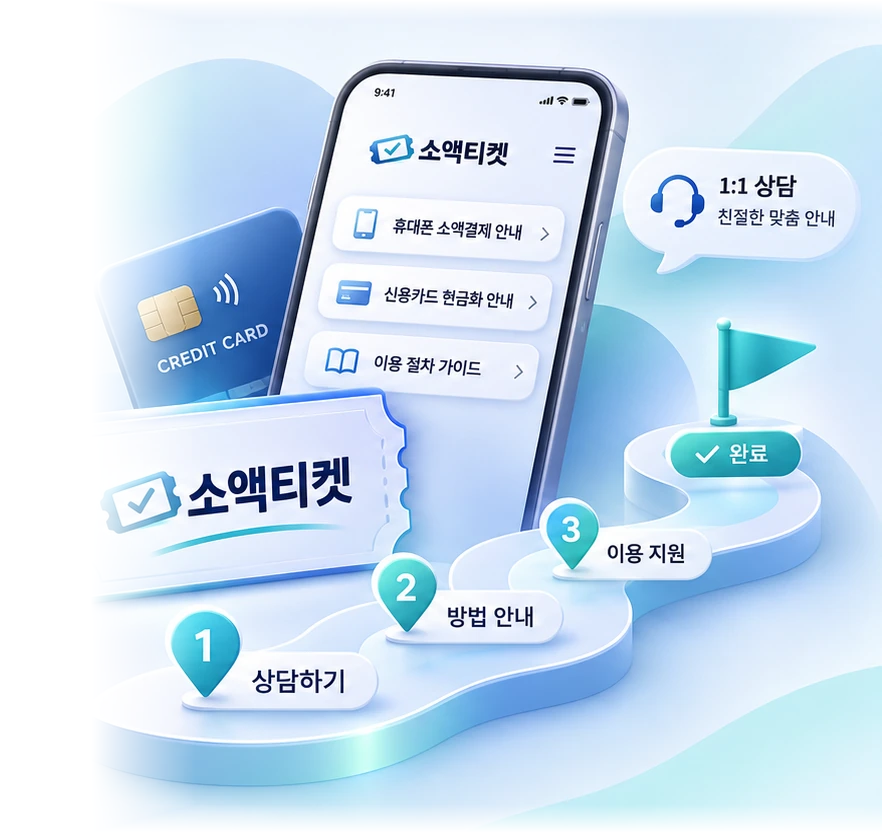
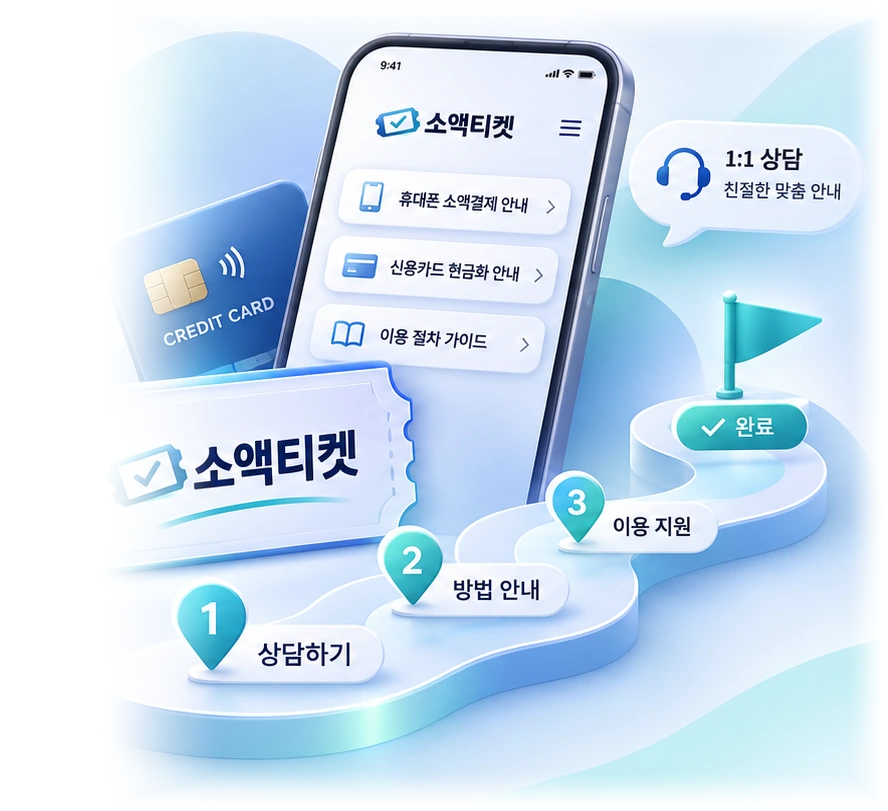
Apply V7 design to first homepage slide

diff --git a/public/index.html b/public/index.html
@@ -1,15 +1,23 @@
 <!DOCTYPE html><html lang="ko"><head><meta charset="utf-8"><meta name="viewport" content="width=device-width, initial-scale=1"><meta name="theme-color" content="#23414a"><meta name="robots" content="noindex,nofollow"><title>상품권 이용 안내 | 소액티켓</title><meta name="description" content="휴대폰 소액결제, 신용카드 상품권 구매, 모바일상품권 매입을 소액티켓에서 안내합니다."><link rel="stylesheet" href="assets/site.css"><script src="assets/site.js" defer></script></head><body><div class="utility"><div class="wrap"><span>소액티켓 · 상품권 이용 안내</span><div class="line"><span><i class="dot"></i>구매·매입 조건 확인</span><a href="faq.html#contact">온라인 문의 안내</a></div></div></div><header class="header site-header"><div class="wrap header-in brand-header"><a class="brand" href="index.html" aria-label="소액티켓 메인으로 이동"><span aria-hidden="true" class="brand-mark"><span>ST</span></span><span><span class="brand-name">소액티켓</span><span class="brand-en" style="display:block">SOAEK TICKET</span></span></a><div class="header-right"><span class="header-quiet">상품권 이용을 더 쉽게 안내합니다</span><a class="header-cta" href="faq.html#contact">상담 안내 <span aria-hidden="true">↗</span></a></div><button class="menu-toggle mobile-nav-toggle" aria-controls="menu-shell" aria-expanded="false" aria-label="전체 메뉴 열기" type="button"><span></span><span></span><span></span></button></div><div class="menu-shell" id="menu-shell"><nav class="primary-navigation wrap" aria-label="전체 서비스 메뉴"><div class="primary-item" data-menu-group="brand"><button type="button" class="primary-tab" data-menu-trigger="brand" aria-expanded="false" aria-controls="mega-menu">소액티켓 소개<span class="tab-caret" aria-hidden="true">⌄</span></button><div class="mobile-submenu"><a class="mobile-sub-link" href="index.html#about">브랜드 소개</a><a class="mobile-sub-link" href="index.html#standards">서비스 운영 원칙</a><a class="mobile-sub-link" href="index.html#news">이용 정보 살펴보기</a></div></div><div class="primary-item" data-menu-group="mobile"><button type="button" class="primary-tab" data-menu-trigger="mobile" aria-expanded="false" aria-controls="mega-menu">휴대폰 소액결제<span class="tab-caret" aria-hidden="true">⌄</span></button><div class="mobile-submenu"><a class="mobile-sub-link" href="mobile-payment.html#overview">서비스 안내</a><a class="mobile-sub-link" href="mobile-payment.html#limits">결제 한도</a><a class="mobile-sub-link" href="mobile-payment.html#troubleshooting">승인 제한·오류</a><a class="mobile-sub-link" href="mobile-payment.html#billing">청구·납부 정보</a></div></div><div class="primary-item" data-menu-group="credit"><button type="button" class="primary-tab" data-menu-trigger="credit" aria-expanded="false" aria-controls="mega-menu">신용카드 안내<span class="tab-caret" aria-hidden="true">⌄</span></button><div class="mobile-submenu"><a class="mobile-sub-link" href="credit-card.html#overview">상품권 카드 구매</a><a class="mobile-sub-link" href="credit-card.html#methods">일시불·할부 안내</a><a class="mobile-sub-link" href="credit-card.html#fees">결제 금액·무이자</a><a class="mobile-sub-link" href="credit-card.html#supported">카드별 이용 조건</a></div></div><div class="primary-item" data-menu-group="gift"><button type="button" class="primary-tab" data-menu-trigger="gift" aria-expanded="false" aria-controls="mega-menu">모바일상품권<span class="tab-caret" aria-hidden="true">⌄</span></button><div class="mobile-submenu"><a class="mobile-sub-link" href="giftcard.html#overview">상품권 매입 안내</a><a class="mobile-sub-link" href="giftcard.html#types">상품권 종류·권종</a><a class="mobile-sub-link" href="giftcard.html#condition">유효기간·사용 상태</a><a class="mobile-sub-link" href="giftcard.html#payout">매입금액·입금 확인</a></div></div><div class="primary-item" data-menu-group="usage"><button type="button" class="primary-tab" data-menu-trigger="usage" aria-expanded="false" aria-controls="mega-menu">이용안내<span class="tab-caret" aria-hidden="true">⌄</span></button><div class="mobile-submenu"><a class="mobile-sub-link" href="guide.html#steps">전체 이용 절차</a><a class="mobile-sub-link" href="guide.html#before">이용 전 점검</a><a class="mobile-sub-link" href="guide.html#result">거래 결과 확인</a><a class="mobile-sub-link" href="guide.html#privacy">안전한 정보 전달</a></div></div><div class="primary-item" data-menu-group="support"><button type="button" class="primary-tab" data-menu-trigger="support" aria-expanded="false" aria-controls="mega-menu">고객센터<span class="tab-caret" aria-hidden="true">⌄</span></button><div class="mobile-submenu"><a class="mobile-sub-link" href="faq.html#questions">자주 묻는 질문</a><a class="mobile-sub-link" href="faq.html#errors">결제 오류 문의</a><a class="mobile-sub-link" href="faq.html#contact">상담 안내</a></div></div></nav><div class="mega-menu" id="mega-menu" aria-hidden="true"><div class="mega-menu-inner wrap"><div class="mega-grid"><section class="mega-column" data-menu-column="brand" aria-label="소액티켓 소개"><a class="mega-col-heading" href="index.html#about">소액티켓 소개</a><div class="mega-list"><a class="mega-sub-link" href="index.html#about">브랜드 소개</a><a class="mega-sub-link" href="index.html#standards">서비스 운영 원칙</a><a class="mega-sub-link" href="index.html#news">이용 정보 살펴보기</a></div></section><section class="mega-column" data-menu-column="mobile" aria-label="휴대폰 소액결제"><a class="mega-col-heading" href="mobile-payment.html#overview">휴대폰 소액결제</a><div class="mega-list"><a class="mega-sub-link" href="mobile-payment.html#overview">서비스 안내</a><a class="mega-sub-link" href="mobile-payment.html#limits">결제 한도</a><a class="mega-sub-link" href="mobile-payment.html#troubleshooting">승인 제한·오류</a><a class="mega-sub-link" href="mobile-payment.html#billing">청구·납부 정보</a></div></section><section class="mega-column" data-menu-column="credit" aria-label="신용카드 안내"><a class="mega-col-heading" href="credit-card.html#overview">신용카드 안내</a><div class="mega-list"><a class="mega-sub-link" href="credit-card.html#overview">상품권 카드 구매</a><a class="mega-sub-link" href="credit-card.html#methods">일시불·할부 안내</a><a class="mega-sub-link" href="credit-card.html#fees">결제 금액·무이자</a><a class="mega-sub-link" href="credit-card.html#supported">카드별 이용 조건</a></div></section><section class="mega-column" data-menu-column="gift" aria-label="모바일상품권"><a class="mega-col-heading" href="giftcard.html#overview">모바일상품권</a><div class="mega-list"><a class="mega-sub-link" href="giftcard.html#overview">상품권 매입 안내</a><a class="mega-sub-link" href="giftcard.html#types">상품권 종류·권종</a><a class="mega-sub-link" href="giftcard.html#condition">유효기간·사용 상태</a><a class="mega-sub-link" href="giftcard.html#payout">매입금액·입금 확인</a></div></section><section class="mega-column" data-menu-column="usage" aria-label="이용안내"><a class="mega-col-heading" href="guide.html#steps">이용안내</a><div class="mega-list"><a class="mega-sub-link" href="guide.html#steps">전체 이용 절차</a><a class="mega-sub-link" href="guide.html#before">이용 전 점검</a><a class="mega-sub-link" href="guide.html#result">거래 결과 확인</a><a class="mega-sub-link" href="guide.html#privacy">안전한 정보 전달</a></div></section><section class="mega-column" data-menu-column="support" aria-label="고객센터"><a class="mega-col-heading" href="faq.html#questions">고객센터</a><div class="mega-list"><a class="mega-sub-link" href="faq.html#questions">자주 묻는 질문</a><a class="mega-sub-link" href="faq.html#errors">결제 오류 문의</a><a class="mega-sub-link" href="faq.html#contact">상담 안내</a></div></section></div></div></div></div></header><main id="top">
 <section aria-label="소액티켓 대표 배너" class="hero">
-<div aria-hidden="false" class="hero-slide hero-slide-intro on">
+<div aria-hidden="false" class="hero-slide hero-slide-intro hero-slide-original on">
   <div class="hero-inner">
     <div class="hero-copy">
-      <div class="hero-over">SOAEK TICKET · SERVICE GUIDE</div>
-      <h1><em>소액티켓</em>에서<br>차근차근.</h1>
+      <div class="hero-over hero-over-pill">소액결제 · 신용카드 현금화 가이드</div>
+      <h1 class="hero-reference-title"><em>소액티켓</em>에서 차근차근</h1>
       <p class="hero-desc">휴대폰 소액결제부터 신용카드 현금화까지<br>소액티켓에서 하나하나 알려드립니다.</p>
-      <a class="hero-link" href="guide.html#steps">서비스 자세히 보기 <strong>↗</strong></a>
+      <div class="hero-intro-actions">
+        <a class="hero-cta hero-cta-primary" href="faq.html#contact"><span class="hero-cta-ico" aria-hidden="true">◉</span> 상담 신청하기 <span aria-hidden="true">↗</span></a>
+        <a class="hero-cta hero-cta-secondary" href="guide.html#steps"><span class="hero-cta-ico" aria-hidden="true">▣</span> 이용 가이드 보기 <span aria-hidden="true">↗</span></a>
+      </div>
+      <div class="hero-intro-trust" aria-label="소액티켓 서비스 안내">
+        <span><b class="hero-trust-icon">✓</b><span><strong>안심 상담</strong><small>궁금한 점을 편하게 문의</small></span></span>
+        <span><b class="hero-trust-icon">▤</b><span><strong>단계별 안내</strong><small>처음부터 끝까지 차근차근</small></span></span>
+        <span><b class="hero-trust-icon">ϟ</b><span><strong>쉽고 간편한 이용</strong><small>복잡함 없이 쉽게</small></span></span>
+      </div>
     </div>
     <div class="hero-intro-art">
-      <img src="assets/soaekticket-hero-01.webp" width="882" height="832" alt="소액티켓 결제 안내 화면과 카드, 상품권을 보여주는 3D 일러스트">
+      <img src="assets/soaekticket-hero-01.webp" alt="소액티켓 휴대폰, 카드, 상품권과 3단계 이용 흐름을 표현한 3D 일러스트" width="888" height="811">
     </div>
   </div>
 </div>

diff --git a/public/assets/site.css b/public/assets/site.css
@@ -138,18 +138,70 @@
 @media(max-width:700px){html{scroll-padding-top:70px}.page-hero .wrap{min-height:0;display:block;padding-top:44px;padding-bottom:26px}.page-hero h1{font-size:36px;margin:17px 0}.page-hero p{font-size:13px}.hero-piece{width:170px;margin:0 auto;height:160px;aspect-ratio:unset}.hero-piece .ticket-shape{font-size:37px}.sub-section{padding:49px 0}.sub-heading{font-size:27px;margin:15px 0 20px}.sub-paragraph{font-size:14px;line-height:1.85}.sub-card-grid{grid-template-columns:1fr;margin-top:24px;gap:12px}.sub-card{min-height:0;padding:23px}.sub-callout{padding:18px;font-size:13px}.contact-info-panel{padding:24px;display:block}.contact-info-panel h3{font-size:18px}.contact-info-panel .soft-link{margin-top:12px;white-space:normal}.related-links{gap:8px}.related-links a{padding:10px}.page-related{padding:47px 0}.faqs-list summary{font-size:14px;padding-right:25px}.faqs-list details p{margin-left:0}.breadcrumb{font-size:11px}.footer-links{margin-top:20px;gap:12px}.detail-table{font-size:13px}}
 @media(prefers-reduced-motion:reduce){.hero-slide{transition:none}}
 
-.hero-slide-intro{background:linear-gradient(115deg,#fff 8%,#f3f8ff 54%,#dceefe 100%)}
-.hero-slide-intro::before{content:none}
-.hero-slide-intro .hero-inner{grid-template-columns:1fr 1fr}
-.hero-slide-intro .hero-copy{text-align:center;padding:12px 0 32px}
-.hero-slide-intro .hero-copy h1{font-size:clamp(32px,3.1vw,44px);color:#183b56}
-.hero-slide-intro .hero-copy h1 em{color:#28648e}
-.hero-slide-intro .hero-desc{margin-inline:auto}
-.hero-intro-art{width:min(83%,320px);aspect-ratio:794/832;justify-self:center;margin-bottom:24px;overflow:hidden;border-radius:18px}
-.hero-intro-art img{display:block;width:100%;height:100%;object-fit:cover;object-position:right center}
-@media(max-width:700px){
- .hero-slide-intro .hero-copy{padding:30px 0 0}
- .hero-slide-intro .hero-copy h1{font-size:clamp(26px,7.5vw,32px)}
- .hero-slide-intro .hero-desc{margin-block:14px}
- .hero-intro-art{width:min(78%,242px);margin:16px auto 0;border-radius:14px}
+/* SOAEKTICKET first hero reference-match: scoped to .hero-slide-original ONLY */
+.hero-slide-original{background:radial-gradient(ellipse at 80% 57%,rgba(141,202,245,.20),transparent 50%),linear-gradient(110deg,#fff 6%,#fafdff 45%,#dcefff 100%)}
+.hero-slide-original::before{display:none}
+.hero:has(.hero-slide-original.on){min-height:675px}
+.hero-slide-original .hero-inner{position:relative;display:flex;align-items:stretch;width:min(1500px,calc(100% - 90px));min-height:675px;overflow:visible}
+.hero-slide-original .hero-copy{position:relative;z-index:2;flex:0 0 61%;max-width:none;text-align:left;padding:105px 0 90px}
+.hero-slide-original .hero-over-pill{display:inline-block;background:linear-gradient(95deg,#d8edff,#d1f5f5);border-radius:999px;color:#102f68;letter-spacing:0;font-size:clamp(12px,1.1vw,17px);font-weight:790;line-height:1.25;padding:12px 20px;margin:0 0 34px}
+.hero-slide-original .hero-copy .hero-reference-title{font-size:clamp(40px,4.5vw,70px);white-space:nowrap;line-height:1.16;letter-spacing:-.088em;font-weight:900;color:#061c3d;text-align:left;max-width:none;margin:0;text-wrap:nowrap}
+.hero-slide-original .hero-reference-title em{font-style:normal;color:#0f49ad}
+.hero-slide-original .hero-desc{color:#586477;font-size:clamp(17px,1.6vw,25px);line-height:1.66;margin:30px 0 36px;max-width:755px;text-align:left;font-weight:450}
+.hero-slide-original .hero-intro-actions{display:flex;gap:14px;align-items:center;justify-content:flex-start;flex-wrap:wrap;margin:0}
+.hero-slide-original .hero-cta{min-height:64px;display:inline-flex;align-items:center;justify-content:center;gap:13px;padding:0 27px;border-radius:16px;font-size:clamp(15px,1.25vw,18px);font-weight:800;white-space:nowrap;text-decoration:none;transition:transform .2s,box-shadow .2s}
+.hero-slide-original .hero-cta-primary{background:linear-gradient(115deg,#278dff 0%,#062caa 100%);color:#fff;box-shadow:0 12px 25px rgba(27,85,168,.15)}
+.hero-slide-original .hero-cta-secondary{background:#fff;border:2px solid #159cc5;color:#102949}
+.hero-slide-original .hero-cta:hover{transform:translateY(-2px)}
+.hero-slide-original .hero-cta-ico{font-size:21px;line-height:1}
+.hero-slide-original .hero-intro-trust{display:flex;align-items:center;gap:19px;flex-wrap:wrap;margin-top:57px;color:#15233c}
+.hero-slide-original .hero-intro-trust>span{display:flex;align-items:center;gap:9px;min-width:0}
+.hero-slide-original .hero-intro-trust>span+span{padding-left:19px;border-left:1px solid #d5e0eb}
+.hero-slide-original .hero-intro-trust strong{display:block;font-size:13px;line-height:1.25}
+.hero-slide-original .hero-intro-trust small{display:block;margin-top:5px;font-size:10px;color:#6a7b8e;white-space:nowrap}
+.hero-slide-original .hero-trust-icon{flex:0 0 39px;height:39px;background:#eaf8fc;border-radius:12px;color:#098dbe;display:grid;place-items:center;font-size:20px}
+.hero-slide-original .hero-intro-art{position:absolute;z-index:1;right:-1%;top:50%;transform:translateY(-50%);width:min(54%,630px);aspect-ratio:792/811;overflow:hidden;pointer-events:none}
+.hero-slide-original .hero-intro-art img{position:absolute;right:0;display:block;width:112.1212%;max-width:none;height:100%}
+@media(max-width:1200px){
+ .hero-slide-original .hero-inner{width:calc(100% - 70px)}
+ .hero-slide-original .hero-copy{padding-top:112px;flex-basis:62%}
+ .hero-slide-original .hero-copy .hero-reference-title{font-size:clamp(38px,4.5vw,58px)}
+ .hero-slide-original .hero-desc{font-size:18px}
+ .hero-slide-original .hero-intro-art{right:-2%;width:53%}
+ .hero-slide-original .hero-intro-trust{gap:9px}
+ .hero-slide-original .hero-intro-trust>span+span{padding-left:10px}
 }
+@media(max-width:850px){
+ .hero:has(.hero-slide-original.on){min-height:0}
+ .hero-slide-original.on{position:relative}
+ .hero-slide-original .hero-inner{display:block;width:calc(100% - 42px);min-height:0;padding-bottom:65px}
+ .hero-slide-original .hero-copy{width:100%;padding:38px 0 0}
+ .hero-slide-original .hero-copy .hero-reference-title{font-size:clamp(33px,6.5vw,48px);white-space:normal;text-wrap:balance}
+ .hero-slide-original .hero-over-pill{margin-bottom:22px}
+ .hero-slide-original .hero-desc{font-size:16px;margin:18px 0 20px}
+ .hero-slide-original .hero-cta{min-height:51px;font-size:14px;border-radius:11px;padding:0 16px}
+ .hero-slide-original .hero-intro-trust{margin-top:25px}
+ .hero-slide-original .hero-intro-art{position:relative;top:auto;right:auto;transform:none;width:min(86%,410px);margin:16px auto 0}
+}
+@media(max-width:700px){
+ .hero:has(.hero-slide-original.on) .hero-index{bottom:4px}
+ .hero-slide-original .hero-inner{width:calc(100% - 32px)}
+ .hero-slide-original .hero-copy{padding-top:28px}
+ .hero-slide-original .hero-over-pill{font-size:11px;margin-bottom:16px;padding:8px 13px}
+ .hero-slide-original .hero-copy .hero-reference-title{font-size:clamp(29px,8.4vw,43px);line-height:1.24}
+ .hero-slide-original .hero-desc{font-size:14px;line-height:1.55;margin:14px 0 18px}
+ .hero-slide-original .hero-intro-actions{gap:8px}
+ .hero-slide-original .hero-cta{min-height:46px;font-size:12px;padding:0 12px;gap:6px}
+ .hero-slide-original .hero-cta-ico{font-size:16px}
+ .hero-slide-original .hero-intro-trust{display:grid;grid-template-columns:repeat(3,minmax(0,1fr));gap:7px;margin-top:22px}
+ .hero-slide-original .hero-intro-trust>span{align-items:flex-start;gap:4px}
+ .hero-slide-original .hero-intro-trust>span+span{padding-left:5px}
+ .hero-slide-original .hero-intro-trust strong{font-size:11px}
+ .hero-slide-original .hero-intro-trust small{font-size:9px;line-height:1.3;white-space:normal;word-break:keep-all}
+ .hero-slide-original .hero-trust-icon{flex-basis:22px;height:22px;border-radius:6px;font-size:13px}
+ .hero-slide-original .hero-intro-art{width:min(88%,318px)}
+}
+@media(max-width:375px){
+ .hero-slide-original .hero-cta{font-size:11px;padding-inline:9px;gap:5px}
+}
+@media(prefers-reduced-motion:reduce){.hero-slide-original .hero-cta{transition:none}}
